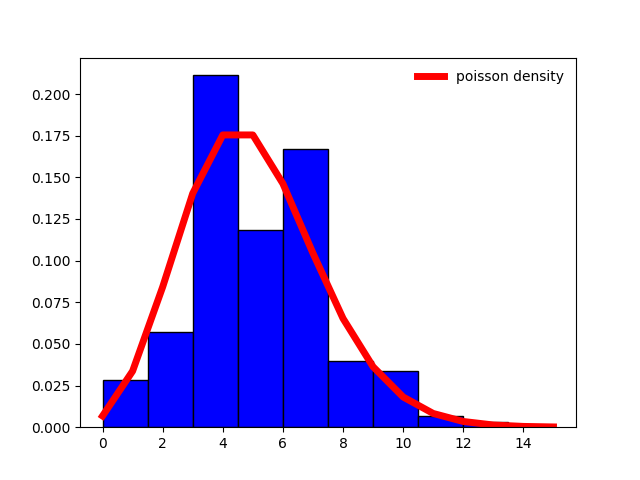
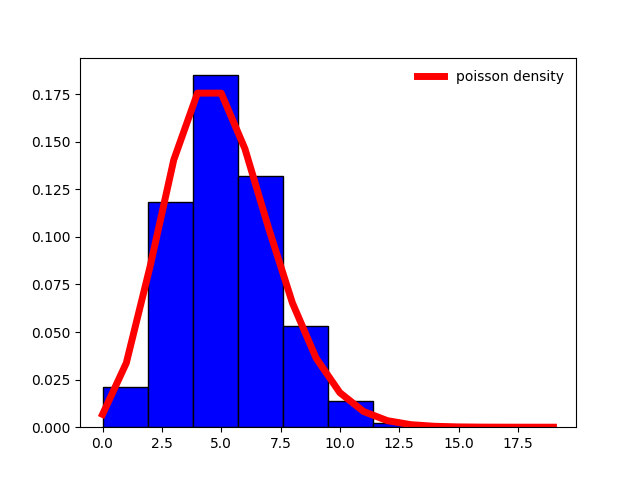
done

diff --git a/main.py b/main.py
@@ -1,59 +1,14 @@
 import matplotlib.pyplot as plt
 import numpy as np
 from math import sqrt
-import scipy. stats as stats
+import scipy.stats as stats
+import random
+
+limit = 1000000
 
 
 class ValueError(Exception):
     pass
-
-
-def density(distrib):
-    r = distrib.rv.rvs(size=distrib.limit_val)
-    distrib.r = r
-    _, ax = plt.subplots(1, 1)
-    x = distrib.x_axe()
-    ax.hist(r, density=True, color='blue', edgecolor='black')
-    ax.plot(x, distrib.get_density_plot(x), 'r-', lw=5, label=distrib.name+' density')
-    ax.legend(loc='best', frameon=False)
-    plt.show()
-
-
-def LoLN(distrib):
-    r = distrib.rv.rvs(size=distrib.limit_val)
-    ex = distrib.ex
-    _, ax = plt.subplots(1, 1)
-    exs = []
-    sum = 0
-    for i in range(1, len(r)):
-        sum += r[i]
-        exs.append(sum / i)
-    ax.plot(range(1, len(r)), exs, 'g-', lw=2, label=distrib.name+' E(X)')
-    plt.scatter([len(r) + 1], ex, c='red', marker='*', label='expect', s=40)
-    ax.legend(loc='best', frameon=False)
-    plt.show()
-
-
-def CLT(distrib):
-    limit = 2000000
-    r = distrib.rv.rvs(limit)
-    ex = distrib.ex
-    dx = distrib.dx
-    _, ax = plt.subplots(1, 1)
-    dxs = []
-    sum = 0
-    for i in range(1, len(r)):
-        sum += r[i]
-        dxs.append((sum - i * ex) / sqrt(i * dx))
-        # dxs.append(sum/i)
-    i = 10
-    while i <= limit:
-        print(distrib.name, i, dxs[i])
-        i *= 10
-    ax.plot(range(1, len(r)), dxs, 'g-', lw=2, label=distrib.name+' CLT')
-    # plt.scatter([len(r) + 1], ex, c='red', marker='*', label='expect', s=40)
-    ax.legend(loc='best', frameon=False)
-    plt.show()
 
 
 class Gamma:
@@ -63,16 +18,15 @@ class Gamma:
         self.loc = loc
         self.scale = scale
         self.rv = stats.gamma(k, loc=loc, scale=scale)
-        self.ex = stats.gamma.expect(lambda x: x, (k,), loc=loc, scale=scale)
+        self.ex = stats.gamma.expect(None, (k,), loc=loc, scale=scale)
         self.dx = stats.gamma.var(k, loc=loc, scale=scale)
         self.name = 'gamma'
-        self.limit_val = 2000000
 
     def get_density_plot(self, x):
         return self.rv.pdf(x)
 
     def x_axe(self):
-        return np.linspace(self.rv.ppf(0.0000001), self.rv.ppf(0.9999999), 100)
+        return np.linspace(self.rv.ppf(0.0001), self.rv.ppf(0.9999), 10000)
 
     def check_parameters(self, k, scale):
         if k <= 0:
@@ -87,16 +41,15 @@ class Norm:
         self.loc = loc
         self.scale = scale
         self.rv = stats.norm(loc, scale)
-        self.ex = stats.norm.expect(lambda x: x, loc=loc, scale=scale)
-        self.dx = stats.norm.var(loc=loc, scale=scale)
-        self.name = 'norm'
-        self.limit_val = 4000
+        self.ex = loc
+        self.dx = scale
+        self.name = 'normal'
 
     def get_density_plot(self, x):
         return self.rv.pdf(x)
 
     def x_axe(self):
-        return np.linspace(self.rv.ppf(0.0000001), self.rv.ppf(0.9999999), 100)
+        return np.linspace(self.rv.ppf(0.0001), self.rv.ppf(0.9999), 10000)
 
     def check_parameters(self, scale):
         if scale <= 0:
@@ -111,10 +64,9 @@ class Binom:
         self.loc = loc
         self.scale = scale
         self.rv = stats.binom(n, p)
-        self.ex = stats.binom.expect(lambda x: x, (n, p,), loc, scale)
+        self.ex = stats.binom.expect(None, (n, p), loc, scale)
         self.dx = stats.binom.var(n, p, loc=loc)
         self.name = 'binomial'
-        self.limit_val = 6000
 
     def get_density_plot(self, x):
         return self.rv.pmf(x)
@@ -137,16 +89,15 @@ class Uniform:
         self.loc = a
         self.scale = b - a
         self.rv = stats.uniform(loc=self.loc, scale=self.scale)
-        self.ex = stats.uniform.expect(lambda x: x, loc=self.loc, scale=self.scale)
+        self.ex = stats.uniform.expect(None, loc=self.loc, scale=self.scale)
         self.dx = stats.uniform.var(self.loc, self.scale)
         self.name = 'uniform'
-        self.limit_val = 1000
 
     def get_density_plot(self, x):
         return self.rv.pdf(x)
 
     def x_axe(self):
-        return np.linspace(self.rv.ppf(0.0000001), self.rv.ppf(0.9999999), 100)
+        return np.linspace(self.rv.ppf(0.0001), self.rv.ppf(0.9999), 10000)
 
     def check_parameters(self, a, b):
         if a > b:
@@ -160,11 +111,9 @@ class Poisson:
         self.loc = loc
         self.scale = scale
         self.rv = stats.poisson(mu)
-        self.ex = stats.poisson.expect(lambda x: x, (mu,), loc, scale)
+        self.ex = stats.poisson.expect(None, (mu,), loc, scale)
         self.dx = stats.poisson.var(mu, loc=loc)
         self.name = 'poisson'
-        self.limit_val = 6000
-        self.r = [0]
 
     def get_density_plot(self, x):
         return self.rv.pmf(x)
@@ -186,11 +135,9 @@ class Geom:
         self.loc = loc
         self.scale = scale
         self.rv = stats.geom(p)
-        self.ex = stats.geom.expect(lambda x: x, (p,), loc, scale)
+        self.ex = stats.geom.expect(None, (p,), loc, scale)
         self.dx = stats.geom.var(p, loc=loc)
         self.name = 'geometric'
-        self.limit_val = 6000
-        self.r = []
 
     def get_density_plot(self, x):
         return self.rv.pmf(x)
@@ -214,11 +161,9 @@ class Hypergeom:
         self.loc = loc
         self.scale = scale
         self.rv = stats.hypergeom(M, n, N)
-        self.ex = stats.hypergeom.expect(lambda x: x, (M, n, N,), loc, scale)
+        self.ex = stats.hypergeom.expect(None, (M, n, N,), loc, scale)
         self.dx = stats.hypergeom.var(M, n, N, loc=loc)
-        self.name = 'hgypergeometric'
-        self.limit_val = 6000
-        self.r = []
+        self.name = 'hypergeometric'
 
     def get_density_plot(self, x):
         return self.rv.pmf(x)
@@ -242,48 +187,115 @@ class Cauchy:
         self.loc = loc
         self.scale = scale
         self.rv = stats.cauchy(loc=loc, scale=scale)
-        self.ex = stats.cauchy.expect(lambda x: x, loc=loc, scale=scale)
+        self.ex = stats.cauchy.expect(None, loc=loc, scale=scale)
         self.dx = stats.cauchy.var(loc=loc, scale=scale)
         self.name = 'cauchy'
-        self.limit_val = 6000
 
     def get_density_plot(self, x):
         return self.rv.pdf(x)
 
     def x_axe(self):
-        return np.linspace(self.rv.ppf(0.001), self.rv.ppf(0.999), 100)
+        return np.linspace(self.rv.ppf(0.01), self.rv.ppf(0.99), 100)
+
+
+def calc_density(distrib):
+    x = distrib.x_axe()
+    return x, distrib.get_density_plot(x)
+
+
+def density(distrib):
+    r = distrib.rv.rvs(limit)
+    if distrib.name == 'cauchy':
+        r /= 10000
+    distrib.r = r
+    x, y = calc_density(distrib)
+    _, ax = plt.subplots(1, 1)
+    ax.hist(r, density=True, color='blue', edgecolor='black')
+    ax.plot(x, y, 'r-', lw=5, label=distrib.name + ' density')
+    ax.legend(loc='best', frameon=False)
+    plt.show()
+
+
+def LoLN(distrib):
+    r = distrib.rv.rvs(limit)
+    ex = distrib.ex
+    _, ax = plt.subplots(1, 1)
+    exs = []
+    sum = 0
+    for i in range(limit):
+        sum += r[i]
+        exs.append(sum / (i + 1))
+    ax.plot(range(limit), exs, 'g-', lw=2, label=distrib.name + ' E(X)')
+    plt.scatter(limit, ex, c='red', marker='*', label='expect', s=40)
+    ax.legend(loc='best', frameon=False)
+    plt.show()
+
+
+def CLT(distrib):
+    r = distrib.rv.rvs(limit)
+    ex = distrib.ex
+    dx = distrib.dx
+    _, ax = plt.subplots(1, 1)
+    dxs = []
+    sum = 0
+    for i in range(limit):
+        sum += r[i]
+        dxs.append((sum - (i + 1) * ex) / sqrt((i + 1) * dx))
+    i = 10
+    while i <= limit:
+        print(distrib.name, i, dxs[i - 1])
+        i *= 10
+    ax.plot(range(limit), dxs, 'g-', lw=2, label=distrib.name + ' CLT')
+    ax.legend(loc='best', frameon=False)
+
+
+def check_CLT(distrib, N):
+    n = 100
+    ex = distrib.ex
+    dx = distrib.dx
+    _, ax = plt.subplots(1, 1)
+    y = []
+    for i in range(N):
+        r = distrib.rv.rvs(n)
+        y.append((sum(r) - n * ex) / sqrt(n * dx))
+    ax.hist(y, density=True, color='blue', edgecolor='black', label=distrib.name+' sample')
+    x, y = calc_density(Norm(0, 1))
+    ax.plot(x, y, 'r-', lw=5, label='norm density', alpha=0.5)
+    ax.legend(loc='best', frameon=False)
+    plt.show()
 
 
 if __name__ == '__main__':
     # 1
-    gamma = Gamma(1.99, 0)
-    norm = Norm(1000, 10)
+    gamma = Gamma(1.99, 10)
+    norm = Norm(10, 5)
     binom = Binom(40, 0.2)
     uniform = Uniform(6, 11)
     poisson = Poisson(5)
     geom = Geom(0.7)
     hypergeom = Hypergeom(20, 4, 12)
     cauchy = Cauchy()
-    # density(gamma)
-    # density(norm)
-    # density(binom)
-    # density(uniform)
-    # density(poisson)
-    # density(geom)
-    # density(hypergeom)
-    # density(cauchy)
+
+    density(gamma)
+    density(norm)
+    density(binom)
+    density(uniform)
+    density(poisson)
+    density(geom)
+    density(hypergeom)
+    density(cauchy)
 
     # 2
-    # LoLN(gamma)
-    # LoLN(norm)
-    # LoLN(binom)
-    # LoLN(uniform)
-    # LoLN(poisson)
-    # LoLN(geom)
-    # LoLN(hypergeom)
-    # LoLN(cauchy)  # мат ожидания не существует
+    LoLN(gamma)
+    LoLN(norm)
+    LoLN(binom)
+    LoLN(uniform)
+    LoLN(poisson)
+    LoLN(geom)
+    LoLN(hypergeom)
+    LoLN(cauchy)  # мат ожидания не существует
 
-    # 3
+    # 3 стремится к 0 -> ЗБЧ, больше выборка - больше точность
     CLT(gamma)
     CLT(norm)
     CLT(binom)
@@ -291,3 +303,11 @@ if __name__ == '__main__':
     CLT(poisson)
     CLT(geom)
     CLT(hypergeom)
+
+    check_CLT(gamma, 100000)
+    check_CLT(norm, 100000)
+    check_CLT(binom, 100000)
+    check_CLT(uniform, 100000)
+    check_CLT(poisson, 100000)
+    check_CLT(geom, 100000)
+    check_CLT(hypergeom, 100000)
